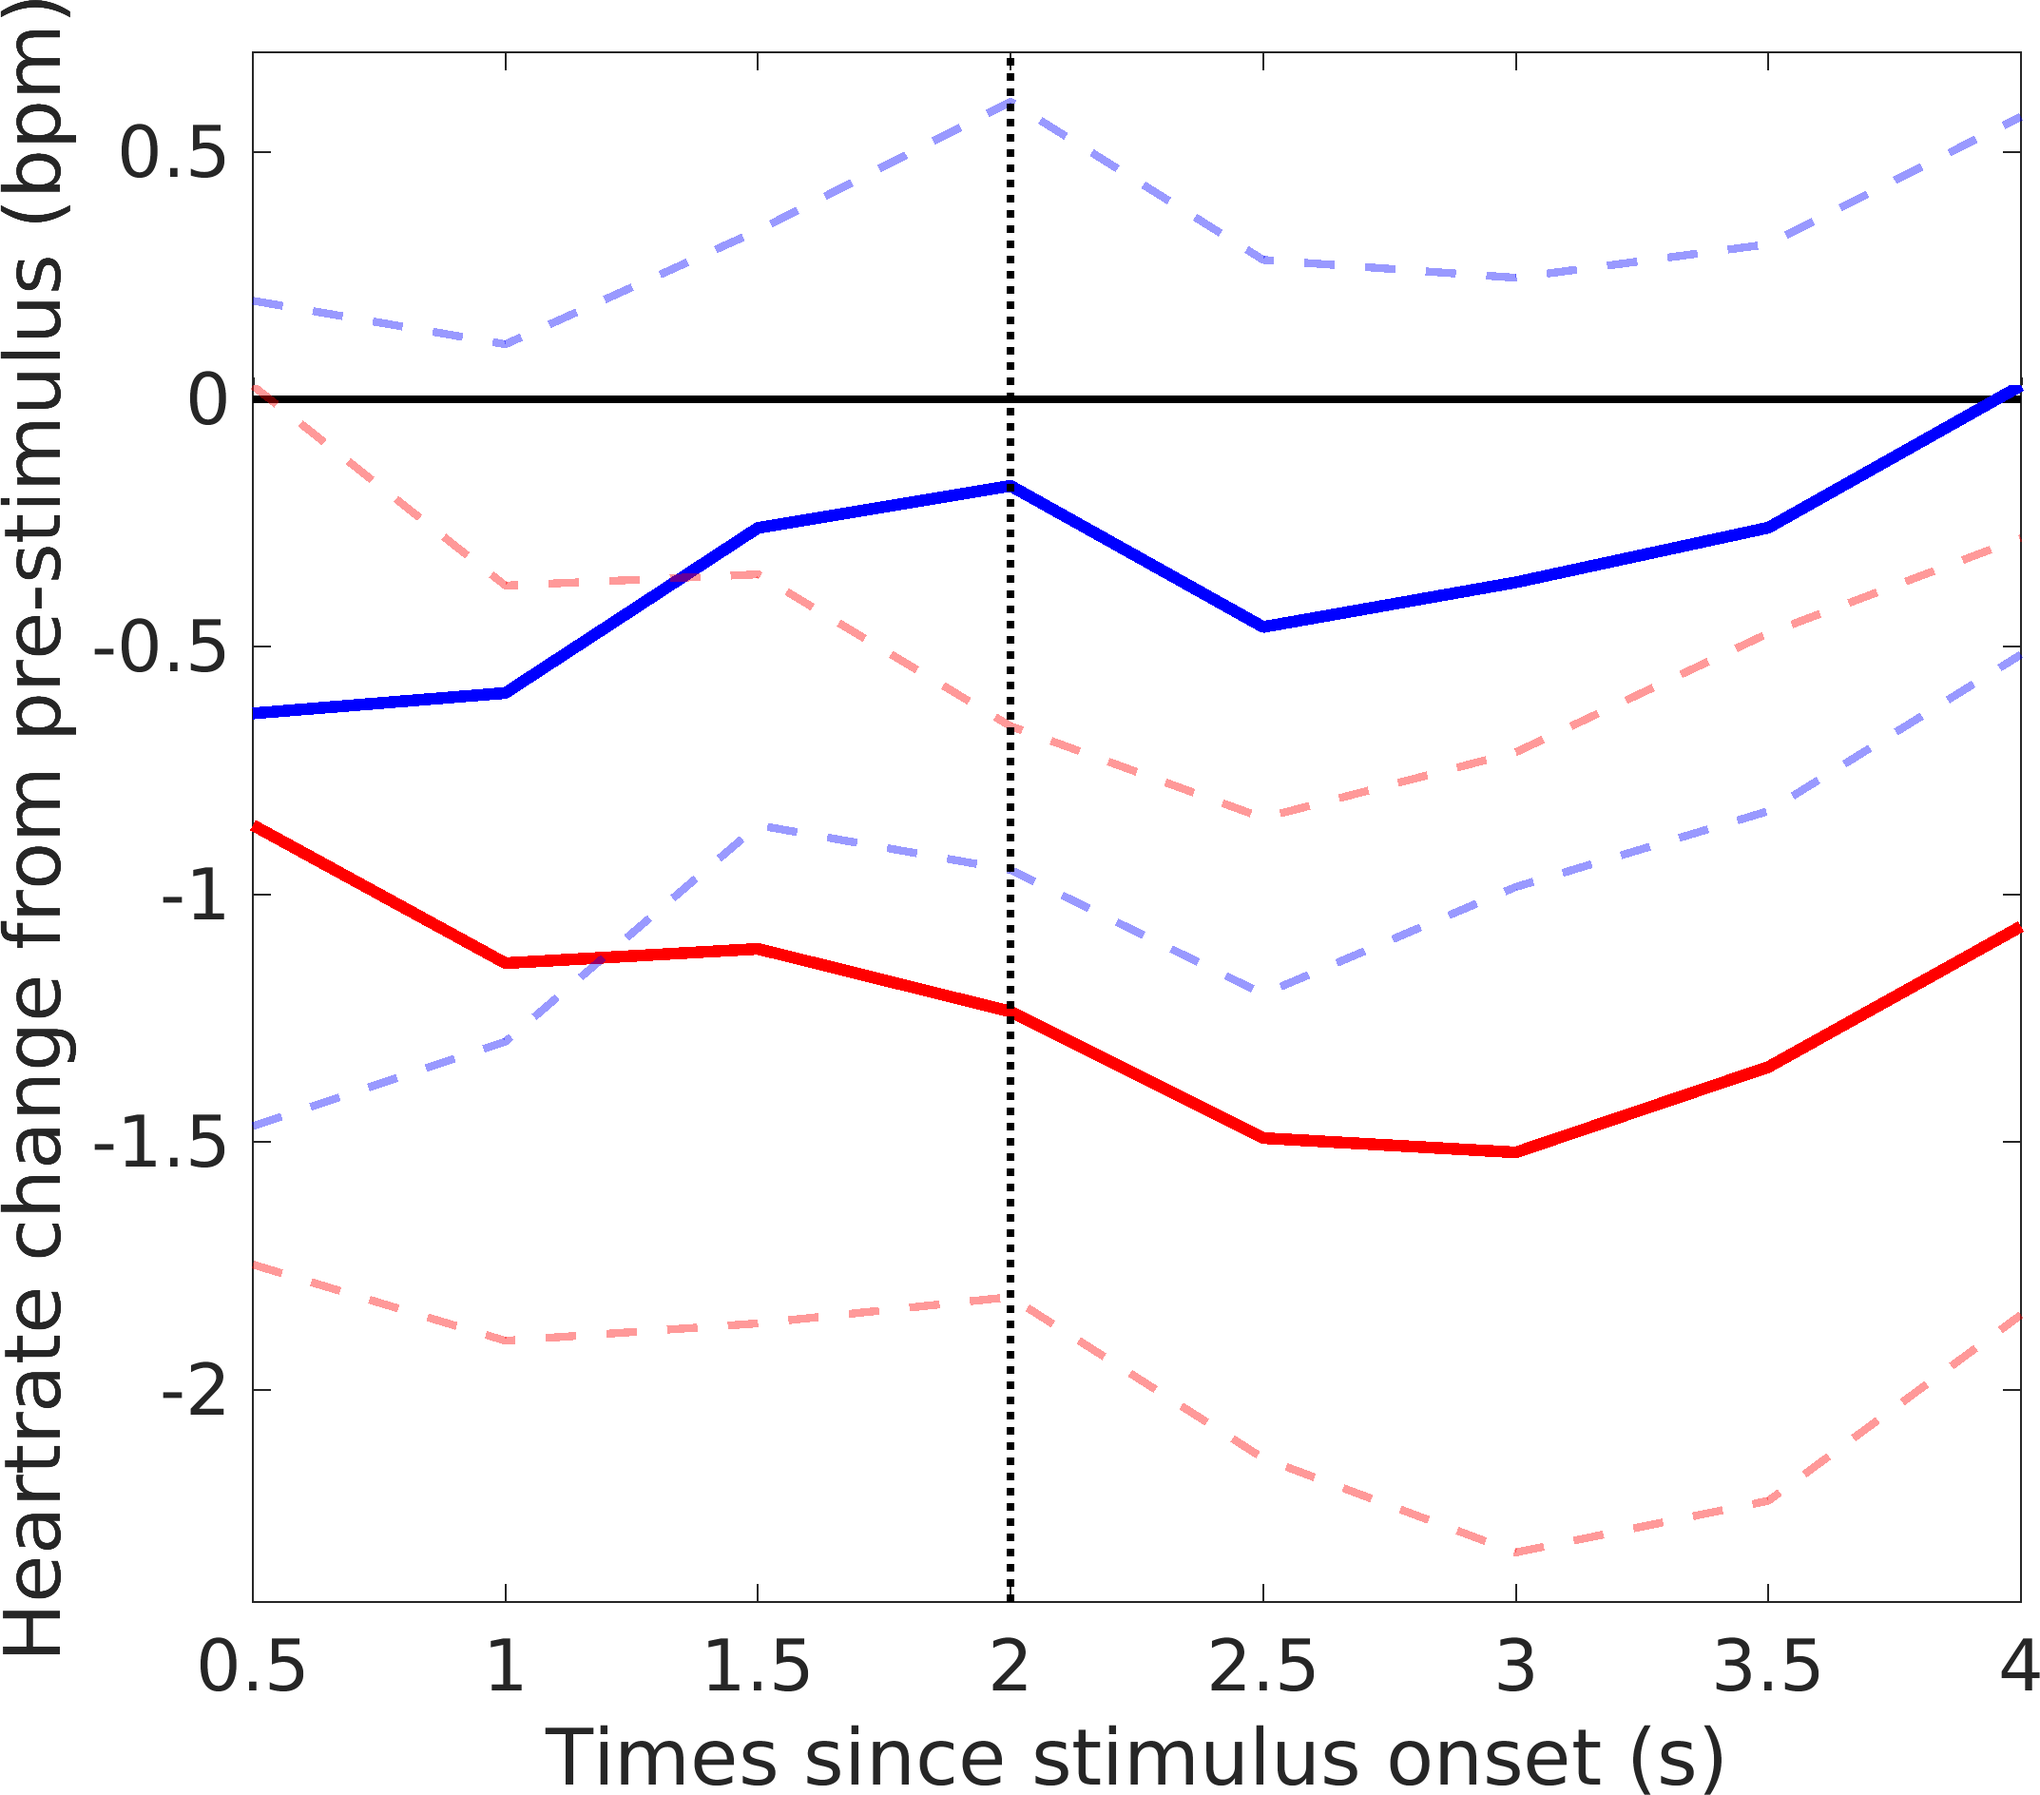
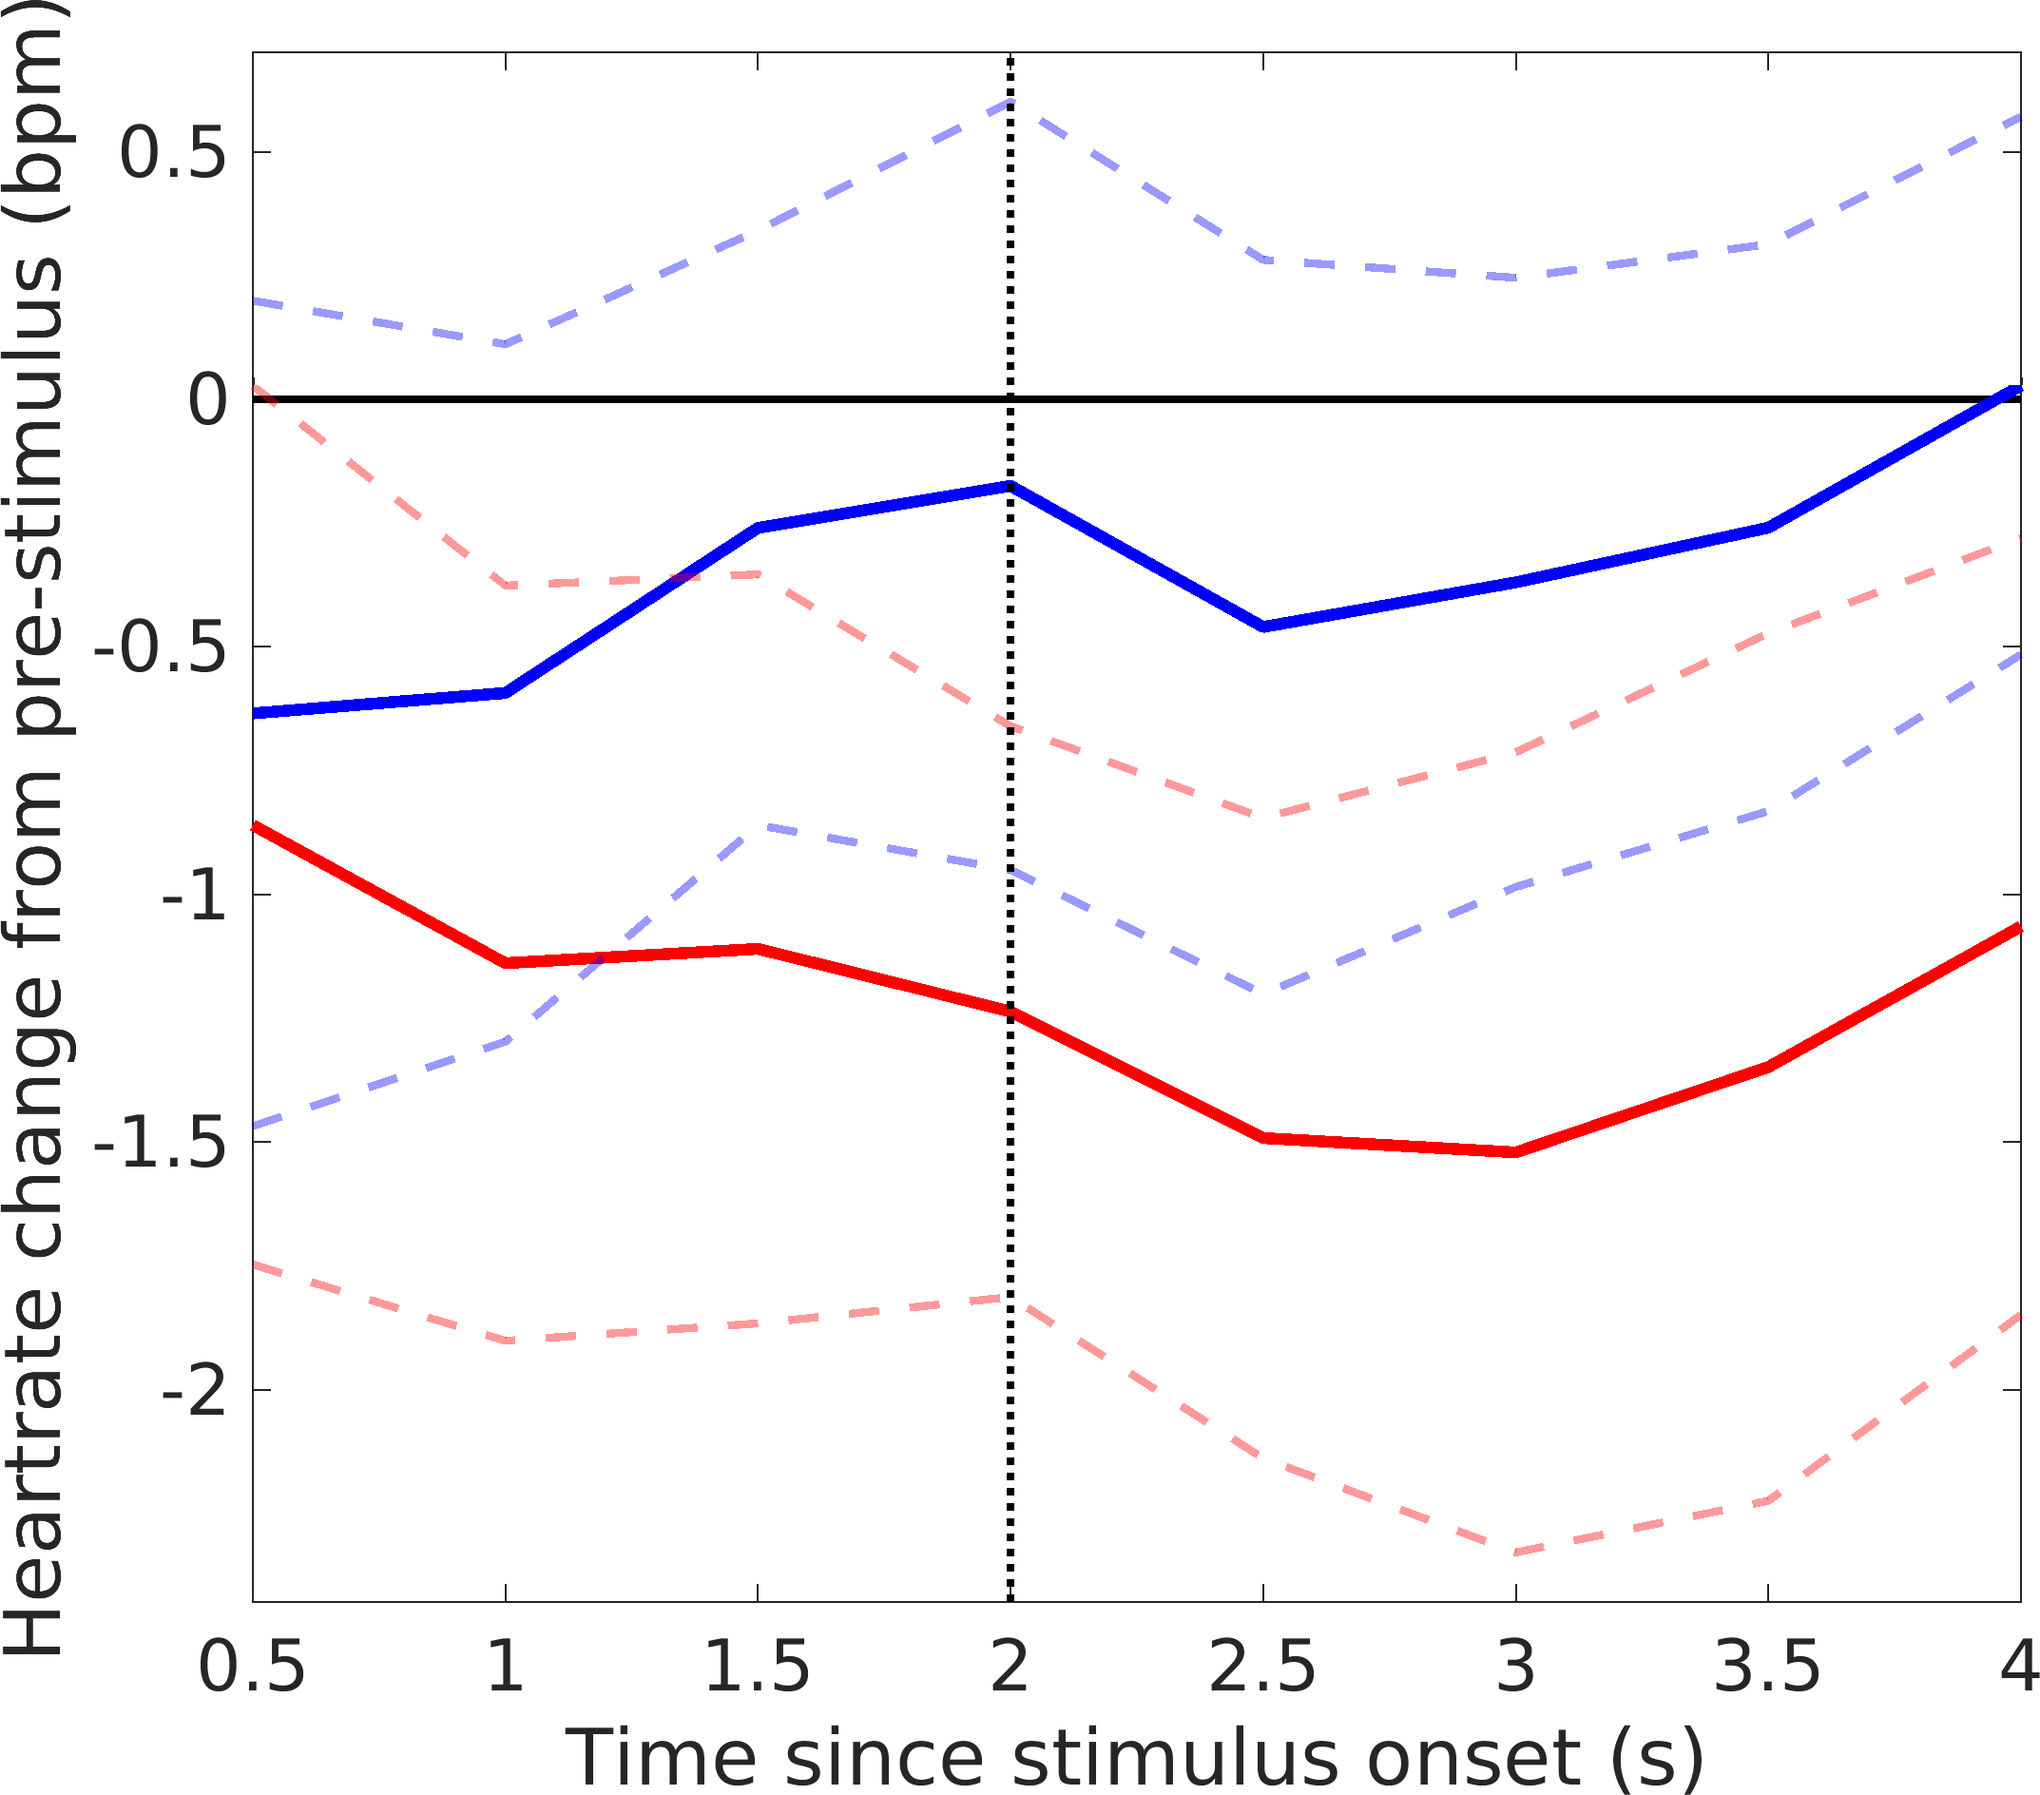
added extra pilot subjects

Changed region(s): [[0.281, 0.9688, 0.843, 1.0]]

diff --git a/source/haufe/haufe_tmp.m b/source/haufe/haufe_tmp.m
@@ -1,0 +1,193 @@
+%%========================================
+%%========================================
+%%
+%% Keith Bush, PhD (2018)
+%% Univ. of Arkansas for Medical Sciences
+%% Brain Imaging Research Center (BIRC)
+%%
+%%========================================
+%%========================================
+
+%% Load in path data
+load('proj.mat');
+
+%% %% Initialize log section
+%% logger(['***********************************************************'],proj.path.logfile);
+%% logger([' Permutation tested Haufe transform of HRV BPM hyperplanes '],proj.path.logfile);
+%% logger(['***********************************************************'],proj.path.logfile);
+%% 
+%% %% Set-up Directory Structure for fMRI betas
+%% if(proj.flag.clean_build)
+%%     disp(['Removing ',proj.path.haufe.hrv_permute_all]);
+%%     eval(['! rm -rf ',proj.path.haufe.hrv_permute_all]);
+%%     disp(['Creating ',proj.path.haufe.hrv_permute_all]);
+%%     eval(['! mkdir ',proj.path.haufe.hrv_permute_all]);
+%% end
+
+%% ----------------------------------------
+%% Load labels;
+label_id = load([proj.path.trg.ex,'stim_ids.txt']);
+v_scores = load([proj.path.trg.ex,'stim_v_scores.txt']);
+
+%%  extract only extrinsic stimuli
+ex_ids = find(label_id==proj.param.trg.ex_id);
+
+%% ----------------------------------------
+%% load subjs
+subjs = load_subjs(proj);
+
+%% ----------------------------------------
+%% load group HRV data
+load([proj.path.physio.hrv_bpm,'all_bpm.mat']);
+
+%% ----------------------------------------
+%% Haufe parameters
+Nboot = 480; %proj.param.haufe.npermute;
+Nchunk = proj.param.haufe.chunk;
+
+%% Storage for MVPA inputs
+all_ex_img = [];
+all_hrv_bpm = [];
+all_subj_i = [];
+all_qlty_i = [];
+
+all_haufe_mask = [];
+
+brain_size = 0;
+
+%% ----------------------------------------
+%% iterate over study subjects
+for i = 1:numel(subjs)
+
+    %% extract subject info
+    subj_study = subjs{i}.study;
+    name = subjs{i}.name;
+    disp([subj_study,':',name]);
+
+    %% Load gray matter mask 
+    gm_nii = load_nii([proj.path.mri.gm_mask,'group_gm_mask.nii']);
+    mask = double(gm_nii.img);
+    brain_size=size(mask);
+    mask = reshape(mask,brain_size(1)*brain_size(2)*brain_size(3),1);
+    in_brain=find(mask==1);  
+
+    %% Load beta-series
+    base_nii = load_nii([proj.path.betas.fmri_ex_beta,subj_study,'_',name,'_lss.nii']);
+    brain_size = size(base_nii.img);
+    
+    %% Vectorize the base image
+    base_img = vec_img_2d_nii(base_nii);
+    base_img = reshape(base_img,brain_size(1)*brain_size(2)*brain_size(3),brain_size(4));
+
+    %% Concatenate the MASKED base image
+    all_img = base_img(in_brain,:)';
+    
+    %% Concatenate all label/subj identifiers
+    subj_id = repmat(i,numel(all_bpm),1);
+    
+    %% Subselect extrinsic data
+    ex_id = find(label_id==proj.param.trg.ex_id);
+    ex_img = all_img(ex_id,:);
+
+    %% Normalize within current subject
+    ex_img = zscore(ex_img);
+
+    %% Peform quality check of generated features
+    qlty = check_gm_img_qlty(ex_img);
+
+    if(qlty.ok)
+        
+        %% ----------------------------------------
+        %% Build Inter-subjec structures
+        all_ex_img = [all_ex_img;ex_img];
+        all_hrv_bpm = [all_hrv_bpm;all_bpm];
+        all_subj_i = [all_subj_i;subj_id];
+        all_qlty_i = [all_qlty_i;i];
+        
+    end
+    
+    %% Find row_ids
+    tmp_mask = zeros(prod(brain_size(1:3)),1);
+    tmp_mask(in_brain) = 1;
+    all_haufe_mask = [all_haufe_mask,tmp_mask];
+
+end
+
+
+
+ahf_sum = sum(all_haufe_mask,2);
+row_ids = find(ahf_sum>numel(all_qlty_i)/2);
+
+
+%% GLUE TOGETHER DATA
+
+load([proj.path.haufe.hrv_permute_all,'grp_haufe_hrv_n480_j337.mat']);
+data1 = grp_haufe_hrv;
+
+load([proj.path.haufe.hrv_permute_all,'grp_haufe_hrv_n150_j151.mat']);
+data2 = grp_haufe_hrv;
+
+%% combine datasets (keep 1st column of first matrix only)
+data3 = [data1,data2(:,2:end)];
+
+%% prune down to max 
+grp_haufe_hrv = data3(:,1:481);
+
+%% Save out combined data
+save([proj.path.haufe.hrv_permute_all,'grp_haufe_hrv_n480_j481.mat'],'grp_haufe_hrv');
+
+%% ========================================
+%% Find Bootstrap Significance Voxels
+alpha05 = 0.05;
+alpha01 = 0.01;
+alpha001 = 0.001;
+
+%% ----------------------------------------
+%% Valence
+sig_ids_05 = [];
+sig_ids_01 = [];
+sig_ids_001 = [];
+
+for j=1:numel(row_ids);
+
+    % ----------------------------------------
+    % Count extrem random samples
+    Next = 0;
+    if(grp_haufe_hrv(row_ids(j),1)>0)
+        Next = numel(find(grp_haufe_hrv(row_ids(j),2:end)>grp_haufe_hrv(row_ids(j),1)));
+    else
+        Next = numel(find(grp_haufe_hrv(row_ids(j),2:end)<grp_haufe_hrv(row_ids(j),1)));
+    end
+
+    % ----------------------------------------
+    % Do 2-sided tests
+    if(Next<round((alpha05/2)*(Nboot)))
+        sig_ids_05 = [sig_ids_05,row_ids(j)];
+    end
+
+    if(Next<round((alpha01/2)*(Nboot)))
+        sig_ids_01 = [sig_ids_01,row_ids(j)];
+    end
+
+    if(Next<round((alpha001/2)*(Nboot-1)))
+        sig_ids_001 = [sig_ids_001,row_ids(j)];
+    end
+
+end
+
+
+
+% Save out: mean encoding of group gray-matter voxels
+mu_hrv_haufe_nii = build_nii_from_gm_mask(grp_haufe_hrv(row_ids,1),gm_nii,row_ids);
+save_nii(mu_hrv_haufe_nii,[proj.path.haufe.hrv_permute_all,'mu_hrv_haufe_n',num2str(Nboot),'.nii']);
+
+% Save out: mean encoding of bootstrap sign. (p<0.05) group gray-matter voxels
+mu_boot_hrv_haufe_nii = build_nii_from_gm_mask(grp_haufe_hrv(sig_ids_05,1),gm_nii,sig_ids_05);
+save_nii(mu_boot_hrv_haufe_nii,[proj.path.haufe.hrv_permute_all,'mu_boot_hrv_haufe_n',num2str(Nboot),'_05.nii']);
+
+% Save out: mean encoding of bootstrap sign. (p<0.01) group gray-matter voxels
+mu_boot_hrv_haufe_nii = build_nii_from_gm_mask(grp_haufe_hrv(sig_ids_01,1),gm_nii,sig_ids_01);
+save_nii(mu_boot_hrv_haufe_nii,[proj.path.haufe.hrv_permute_all,'mu_boot_hrv_haufe_n',num2str(Nboot),'_01.nii']);
+% Save out: mean encoding of bootstrap sign. (p<0.001) group gray-matter voxels
+mu_boot_hrv_haufe_nii = build_nii_from_gm_mask(grp_haufe_hrv(sig_ids_001,1),gm_nii,sig_ids_001);
+save_nii(mu_boot_hrv_haufe_nii,[proj.path.haufe.hrv_permute_all,'mu_boot_hrv_haufe_n',num2str(Nboot),'_001.nii']);

diff --git a/source/analysis/analyze_ex_hrv_mvpa.m b/source/analysis/analyze_ex_hrv_mvpa.m
@@ -47,10 +47,12 @@ end
 s_p_bpm_thresh = signrank(rho_bpm_thresh);
 s_p_v_thresh = signrank(rho_v_thresh);
 
+
 logger(['State effect hrv (thresh): ',...
       num2str(median(rho_bpm_thresh)),', p=',num2str(s_p_bpm_thresh)],proj.path.logfile);
 logger(['State effect v (thresh): ',...
       num2str(median(rho_v_thresh)),', p=',num2str(s_p_v_thresh)],proj.path.logfile);
+
 
 %% ----------------------------------------
 %% Analyze state predictions using all data
@@ -79,10 +81,12 @@ end
 s_p_bpm_all = signrank(rho_bpm_all);
 s_p_v_all = signrank(rho_v_all);
 
+logger(['----------------------------------------']);
 logger(['State effect hrv (all): ',...
       num2str(median(rho_bpm_all)),', p=',num2str(s_p_bpm_all)],proj.path.logfile);
 logger(['State effect v (all): ',...
       num2str(median(rho_v_all)),', p=',num2str(s_p_v_all)],proj.path.logfile);
+
 
 %% -------------------------------------------------
 %% Analyze HRV predictions
@@ -93,8 +97,28 @@ load([proj.path.physio.hrv_bpm,'cv_rho_thresh.mat']);
 hrv_p_v_all = signrank(cv_rho_all);
 hrv_p_v_thresh = signrank(cv_rho_thresh);
 
+logger(['----------------------------------------']);
 logger(['HRV effect thresh: ', ...
         num2str(median(cv_rho_thresh)),', p=',num2str(hrv_p_v_thresh)],proj.path.logfile);
 logger(['HRV effect all: ', ...
         num2str(median(cv_rho_all)),', p=',num2str(hrv_p_v_all)],proj.path.logfile);
+
+logger(['----------------------------------------']);
+cmp_p_thresh = ranksum(cv_rho_thresh,rho_v_thresh);
+logger(['state diff from hrv (thresh): p=',num2str(cmp_p_thresh)]);
+cmp_p_all = ranksum(cv_rho_all,rho_v_all);
+logger(['state diff from hrv (all): p=',num2str(cmp_p_all)]);
+
+
+logger(['----------------------------------------']);
+cmp_p_hrv = ranksum(cv_rho_thresh,cv_rho_all);
+logger(['hrv (all) from hrv (thresh): p=',num2str(cmp_p_hrv)]);
+cmp_p_state = ranksum(rho_v_thresh,rho_v_all);
+logger(['state (all) from state (thresh): p=',num2str(cmp_p_state)]);
+cmp_p_state_bpm = ranksum(rho_bpm_thresh,rho_bpm_all);
+logger(['state_bpm (all) from state_bpm (thresh): p=',num2str(cmp_p_state_bpm)]);
+
+
+
+
 

diff --git a/source/init_project.m b/source/init_project.m
@@ -10,7 +10,7 @@
 
 %% ----------------------------------------
 %% Seed random number generator
-rng(1,'twister');
+rng(11056,'twister');
 
 %% ----------------------------------------
 %% Initialize project param structure
@@ -68,7 +68,6 @@ proj.path.betas.name = 'beta_series/';
 proj.path.trg.name = 'target/';
 proj.path.mvpa.name = 'mvpa/';
 proj.path.haufe.name = 'haufe/';
-proj.path.ctrl.name = 'ctrl/';
 
 %% ----------------------------------------
 %% Specific Output Paths
@@ -200,7 +199,7 @@ proj.param.mvpa.kernel = 'linear';
 proj.param.mvpa.n_resamp = 1; % should be >= 30
 
 %% Haufe parameters
-proj.param.haufe.npermute = 5; %480
+proj.param.haufe.npermute = 480
 proj.param.haufe.chunk = 10;
 
 %% Plotting parameters

diff --git a/source/beta_series/calc_hrv_ex_bpm.m b/source/beta_series/calc_hrv_ex_bpm.m
@@ -247,7 +247,7 @@ scatter(thresh_vec,all_p,40,'MarkerFaceColor','b', ...
 
 hold off;
 xlabel('Threshold for Neutral Stimulus');
-ylabel('Significance of HRV Model Prediction');
+ylabel('PDV Model Prediction Significance (p-value)');
 xlim([min(thresh_vec),max(thresh_vec)]);
 fig = gcf;
 ax = fig.CurrentAxes;
@@ -306,7 +306,7 @@ xlim([min(grp_intrvs),max(grp_intrvs)]);
 ylim([min(mu_neg_trajs-ci_neg_trajs)-nudge,max(mu_pos_trajs+ci_pos_trajs)+nudge]);
 
 % Mark-up plot
-xlabel('Times since stimulus onset (s)');
+xlabel('Time since stimulus onset (s)');
 ylabel('Heartrate change from pre-stimulus (bpm)');
 fig = gcf;
 ax = fig.CurrentAxes;

diff --git a/run_project.m b/run_project.m
@@ -43,7 +43,7 @@ init_project;
 % 
 % %% Physio betas (these are the targets)
 % calc_hrv_ex_beta;  % bpm trajectories | neutral filtering
-% calc_hrv_ex_bpm;  % bpm targets for mvpa
+calc_hrv_ex_bpm;  % bpm targets for mvpa
 % 
 % %% fMRI betas (these are the features)
 % calc_fmri_ex_beta;
@@ -62,7 +62,8 @@ init_project;
 % %% ------------------------------------------------------------ 
 % %% STEP 13: Hyperplane analysis
 % haufe_ex_gm_hrv_mvpa_thresh_permute % (this runs for days)
-haufe_ex_gm_hrv_mvpa_all_permute  % (this runs for weeks)
+% haufe_ex_gm_hrv_mvpa_all_permute  % (this runs for weeks)
+%%%%% haufe_tmp
 
 
 toc
